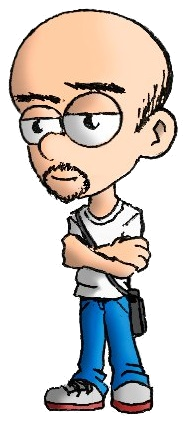
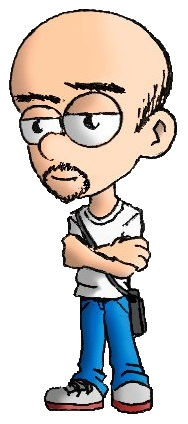
update photo

diff --git a/static/css/index.css b/static/css/index.css
@@ -53,10 +53,33 @@
 }
 
 #photo {
-     height: 110px;
-     margin-left: 27px;
-     margin-right: 17px;
+     height: 120px;
+     margin-left: 17px;
      margin-top: 20px;
+     background: url('../images/me.png');
+     background-size: contain;
+     background-repeat: no-repeat;
+}
+
+#photo_copyright {
+    visibility: hidden;
+    border-radius: 15px;
+    width: 50px;
+    height: 40px;
+    padding: 5px;
+    margin-top: -50px;
+    font-size: 0.8em;
+}
+
+#photo_copyright a {
+    display: block;
+    margin-top: 2px;
+    color: #F9B303;
+}
+
+#photo:hover #photo_copyright {
+    visibility: visible;
+    background: rgba(100, 100, 100, 0.7);
 }
 
 .language {

diff --git a/static/js/index.js b/static/js/index.js
@@ -45,7 +45,7 @@ path = "static/images/";
 DEFAULT_DESC = "<div id='aboutme'><div><p>Hi there! I'm Tim.</p> \
                I like unravelling mysteries of all kinds and learning everything that human mind can possibly bring us, \
                i.e. science, music, poetry, arts, philosophy, etc.</div>\
-               <img id='photo' src='static/images/me.png' /></div>";
+               <div id='photo'><div id='photo_copyright'>Author: <a href='https://github.com/KruKrush'>KruKrush</a></div></div></div>";
 
 
 function createActivities() {
